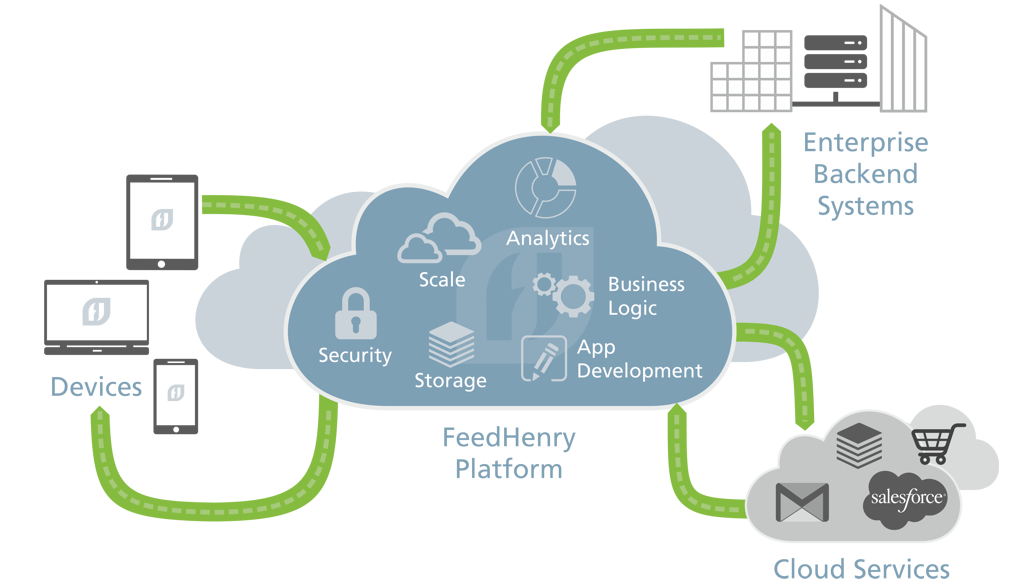
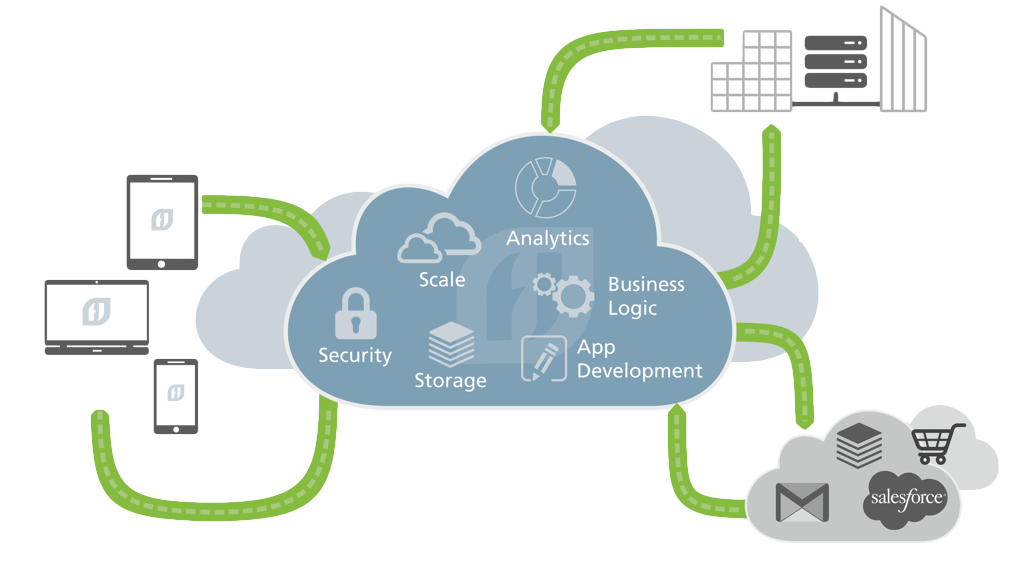
Final tweaks to rackspace landing - resize images, remove unused, use fh url shortner for dynamic links

diff --git a/src/main/webapp/studio/themes/rackspace-us/landing.html b/src/main/webapp/studio/themes/rackspace-us/landing.html
@@ -154,12 +154,13 @@ try {
       <div id="welcome" class="row active">
       <div class="span7">
         <h2>Build Enterprise-Grade Mobile Apps with Rackspace and FeedHenry</h2>
+        <hr />
         <p>Rackspace and FeedHenry combine to deliver the first in its class, completely open, cloud-based, enterprise grade mobile application platform designed to be the most flexible, scalable and secure solution in the industry.</p>
         <!--<a class="btn" target="_blank" href="<%= docLinks.get("docs_fhc")%>">Installing FHC &raquo;</a><br/>
         <a class="btn" target="_blank" href="<%= docLinks.get("docs_fhc_labs")%>">FHC Labs &raquo;</a><br/>-->
       </div>
       <div class="span8 platformdiagram">
-        <img src="<%= studio.getThemeStaticAssetPath("/images/platform-diagram2.png")%>" />
+        <img src="<%= studio.getThemeStaticAssetPath("/images/platform-diagram.png")%>" />
       </div>
     </div>
 
@@ -197,15 +198,13 @@ try {
         </div>
         <div class="span6">
           <h2>Solution Overview</h2>
-          <img src="<%= studio.getThemeStaticAssetPath("/images/blog.png")%>" alt="Blog" class="pull-left thumb">
-          <p>Learn more about how FeedHenry provides a next-generation, cloud-based Mobile
-
-            Application Platform for Enterprises and why Rackspace is the service leader in cloud computing.</p>
-          <a class="btn" target="_blank" href="<%= docLinks.get("docs_tutorial")%>">See Brochure &raquo;</a>
+          <img src="<%= studio.getThemeStaticAssetPath("/images/brochure.png")%>" alt="Blog" class="pull-left thumb">
+          <p>Learn more about how FeedHenry provides a next-generation, cloud-based Mobile Application Platform for Enterprises and why Rackspace is the service leader in cloud computing.</p>
+          <a class="btn" target="_blank" href="http://henr.ie/fhbrochure">See Brochure &raquo;</a>
        </div>
         <div class="span5">
           <h2>Schedule a Demo</h2>
-          <img src="<%= studio.getThemeStaticAssetPath("/images/schedule.png")%>" alt="APIs" class="pull-left thumb">
+          <img src="<%= studio.getThemeStaticAssetPath("/images/calendar.png")%>" alt="APIs" class="pull-left thumb">
           <p>Schedule a live demo with our experts guiding you through developing an enterprise-grade mobile app deployed in the Rackspace Cloud.</p>
           <a class="btn" onclick="switchTab('registerdemo')" href="#">Schedule a Demo &raquo;</a>
         </div>
@@ -215,21 +214,21 @@ try {
       <div class="row docs">
           <div class="span5">
             <h2>Mobile Meets Cloud</h2>
-            <img src="<%= studio.getThemeStaticAssetPath("/images/videos.png")%>" alt="Github" class="pull-left thumb">
+            <img src="<%= studio.getThemeStaticAssetPath("/images/schedule.png")%>" alt="Github" class="pull-left thumb">
             <p>Read press release on how FeedHenry and Rackspace go to market to advance deployments of open, cloud based mobile applications</p>
-            <a class="btn" target="_blank" href="#">View press release &raquo;</a>
+            <a class="btn" target="_blank" href="http://henr.ie/rackspacepressrelease">View press release &raquo;</a>
           </div>
           <div class="span6">
-            <h2>Webinar</h2>
-            <img src="<%= studio.getThemeStaticAssetPath("/images/blog.png")%>" alt="Blog" class="pull-left thumb">
-            <p>View the FeedHenry & Rackspace Webinar</p>
-            <a class="btn" target="_blank" href="#">Watch Webinar &raquo;</a>
+            <h2>Joint Webinar</h2>
+            <img src="<%= studio.getThemeStaticAssetPath("/images/jointventure.png")%>" alt="Blog" class="pull-left thumb">
+            <p>In this webinar learn how FeedHenry and Rackspace have come together to deliver cloud-powered mobile apps for enterprise customers.</p>
+            <a class="btn" target="_blank" href="http://henr.ie/fhrackspacewebinar">Watch Webinar &raquo;</a>
           </div>
           <div class="span5">
             <h2>Blog Post</h2>
-            <img src="<%= studio.getThemeStaticAssetPath("/images/schedule.png")%>" alt="APIs" class="pull-left thumb">
+            <img src="<%= studio.getThemeStaticAssetPath("/images/blog.png")%>" alt="APIs" class="pull-left thumb">
             <p>Read our blog post on why FeedHenry and Rackspace and mobile and cloud are a perfect yin and yang for enterprise mobility.</p>
-            <a class="btn" target="_blank" href="#">Blog Post &raquo;</a>
+            <a class="btn" target="_blank" href="http://henr.ie/rackspaceblogpost">Blog Post &raquo;</a>
 
       </div>
 

diff --git a/src/main/webapp/studio/static/themes/rackspace-us/css/style.css b/src/main/webapp/studio/static/themes/rackspace-us/css/style.css
@@ -28,7 +28,8 @@ body {
   margin-left:7px;
 }
 h2 {
-  font-size: 22px;
+    font-size: 1.3em;
+    font-weight: normal;
 }
 .row.docs {
   color: #505050;
@@ -37,13 +38,13 @@ h2 {
 .bfob {
   color: #FFFFFF;
   text-shadow: 0 -1px 0 rgba(0, 0, 0, 0.25);
-  background-color: #75b7a4;
-  *background-color: #75b7a4;
-  background-image: -moz-linear-gradient(top, #75b7a4, #82bead);
-  background-image: -webkit-gradient(linear, 0 0, 0 100%, from(#75b7a4), to(#82bead));
-  background-image: -webkit-linear-gradient(top, #75b7a4, #82bead);
-  background-image: -o-linear-gradient(top, #75b7a4, #82bead);
-  background-image: linear-gradient(to bottom, #75b7a4, #82bead);
+  background-color: #009CDC;
+  *background-color: #009CDC;
+  background-image: -moz-linear-gradient(top, #009CDC, #0090d9);
+  background-image: -webkit-gradient(linear, 0 0, 0 100%, from(#009CDC), to(#0090d9));
+  background-image: -webkit-linear-gradient(top, #009CDC, #0090d9);
+  background-image: -o-linear-gradient(top, #009CDC, #0090d9);
+  background-image: linear-gradient(to bottom, #009CDC, #0090d9);
   background-repeat: repeat-x;
   border-color: #398907;
   border-color: rgba(0, 0, 0, 0.1) rgba(0, 0, 0, 0.1) rgba(0, 0, 0, 0.25);
@@ -56,8 +57,8 @@ h2 {
 .bfob.disabled,
 .bfob[disabled] {
   color: #FFFFFF;
-  background-color: #75b7a4;
-  *background-color: #75b7a4;
+  background-color: #0090d9;
+  *background-color: #0090d9;
 }
 
 .logoWest {
@@ -143,6 +144,11 @@ pre.code {
 
 .hero-unit .promo {
   font-weight:700;
+}
+
+.hero-unit hr {
+  margin: 6px 0px;
+  border-color: #eee;
 }
 
 p.tab-footer, .hero-unit p.tab-footer{
@@ -333,7 +339,7 @@ iframe.vimeo {
   font-size: 20px;
 }
 .hero-unit p {
-  font-size: 17px;
+  font-size: 15px;
 }
 
 #register_form label, #forgot_form label {
@@ -360,4 +366,9 @@ iframe.vimeo {
 
 .platformdiagram img{
     width: 100%;
+}
+
+.span5 img, .span6 img {
+    height: 100px;
+    width: 88px;
 }
